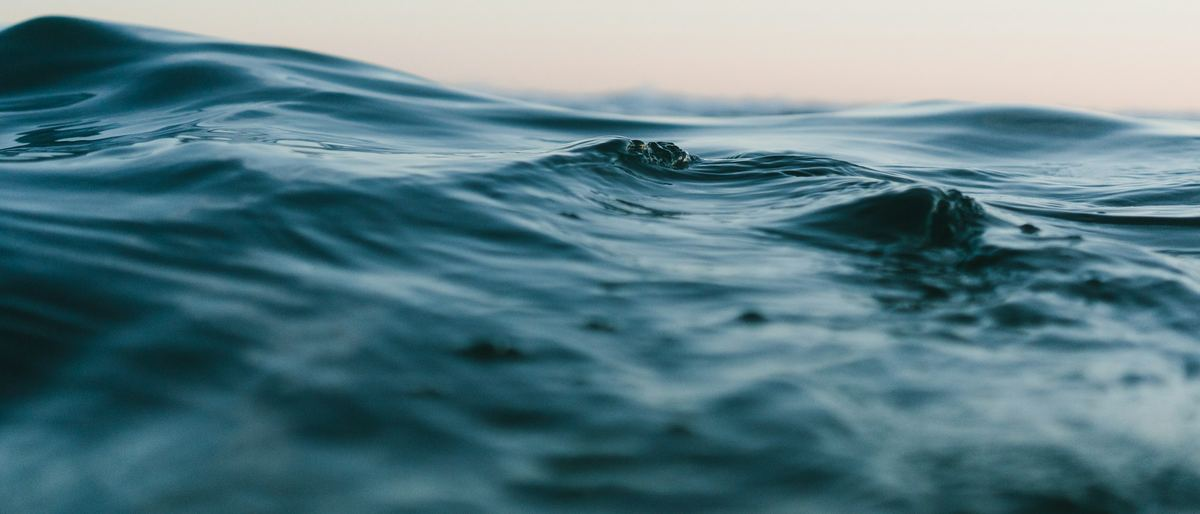
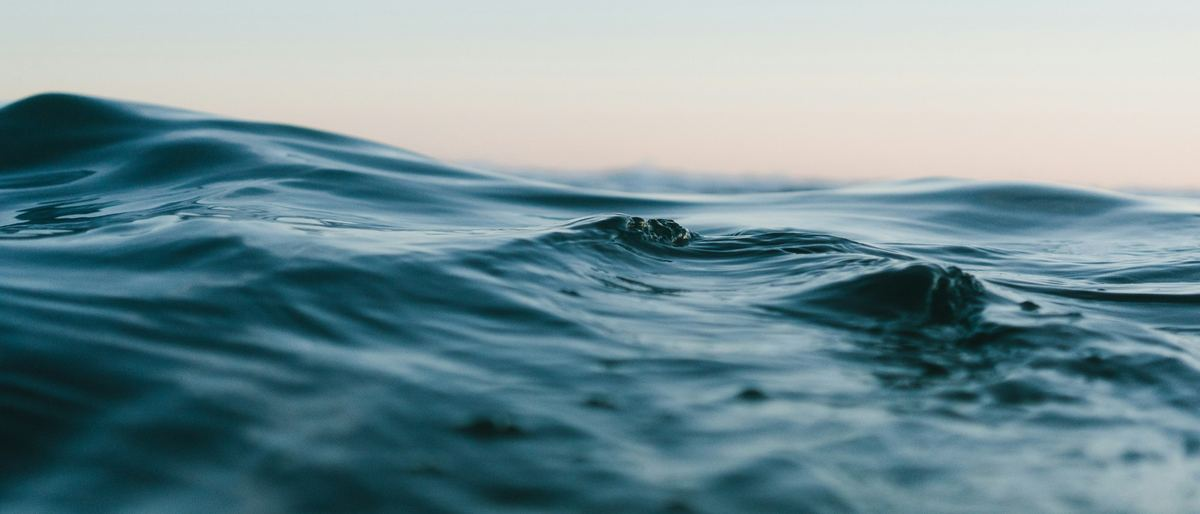
トップの写真をいただいた元画像から切り抜き直したものに差し替え
空と水平線が入るよう、2000×1333 の元画像を 21:9（2000×857）に切り抜いた。

Claude-Session: https://claude.ai/code/session_018Aak2MHL8sYCtXHpbj4DvG

diff --git a/public/index.html b/public/index.html
@@ -36,7 +36,7 @@
         <h1 class="hero__title" id="hero-title">「これ、なんとか<br>ならない？」を、<br>形にする。</h1>
         <p class="hero__lead">小田原のIT会社です。<br>ITシステムの開発と、<br>ホームページ制作をしています。</p>
       </div>
-      <figure class="hero__photo"><img src="assets/img/hero-sea.jpg" srcset="assets/img/hero-sea-1200.jpg 1200w, assets/img/hero-sea.jpg 2400w" sizes="(max-width: 1240px) 100vw, 1160px" alt="静かな海の水面" width="2400" height="1029"></figure>
+      <figure class="hero__photo"><img src="assets/img/hero-sea.jpg" srcset="assets/img/hero-sea-1200.jpg 1200w, assets/img/hero-sea.jpg 2000w" sizes="(max-width: 1240px) 100vw, 1160px" alt="静かな海の水面" width="2000" height="857"></figure>
     </div>
   </section>
 

diff --git a/README.md b/README.md
@@ -21,7 +21,7 @@
 色は紺（文字）と青緑（アクセント1色）。書体は M PLUS 2（和文）と Outfit（英数字）。
 
 ## 画像
-- `assets/img/hero-sea.jpg`（と `-1200`）: トップの写真。Unsplash の画像 `photo-1518837695005-2083093ee35b`（images.unsplash.com から取得、Unsplash License）
+- `assets/img/hero-sea.jpg`（と `-1200`）: トップの写真。いただいた元画像（2000×1333、Unsplash の `photo-1518837695005-2083093ee35b` と同じ写真）を 21:9 に切り抜いたもの
 - `assets/img/representative.jpg`: 代表写真
 - `assets/img/work-pioneer.jpg`: 実績（株式会社パイオニア）のスクリーンショット
 
